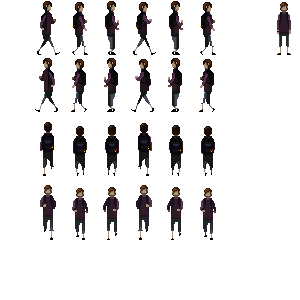
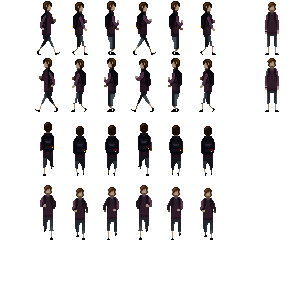
Quest fulfilment and idle animation

Changed region(s): [[0.87, 0.0, 0.99, 0.39]]

diff --git a/src/LostAndFound.Core/Games/Components/QuestHolderComponent.cs b/src/LostAndFound.Core/Games/Components/QuestHolderComponent.cs
@@ -12,12 +12,17 @@ namespace LostAndFound.Core.Games.Components
     public class QuestHolderComponent : IComponent
     {
         public Action<Quest> QuestTaken { get; set; }
+        public Action<Quest> QuestComplete { get; set; }
+
         private readonly ZoneManager _zoneManager;
         private readonly IInputManager _inputManager;
         public IEntity Entity { get; set; }
 
         private readonly IList<Quest> _quests = new List<Quest>();
         private QuestGiverComponent _questGiverNextTo;
+        private MoneyBagComponent _moneyBagComponent;
+        private BoxColliderComponent _boxColliderComponent;
+        private AnimalHolderComponent _animalHolder;
 
         public QuestHolderComponent(ZoneManager zoneManager, IInputManager inputManager)
         {
@@ -27,35 +32,19 @@ namespace LostAndFound.Core.Games.Components
 
         public void Start()
         {
+            _moneyBagComponent = Entity.GetComponent<MoneyBagComponent>();
+            _boxColliderComponent = Entity.GetComponent<BoxColliderComponent>();
+            _animalHolder = Entity.GetComponent<AnimalHolderComponent>();
         }
 
         public void Update(GameTime gameTime)
         {
-            foreach (var entity in _zoneManager.ActiveZone.Entities)
+            if (_inputManager.KeyPressed(Keys.E))
             {
-                var questGiverComponent = entity.GetComponent<QuestGiverComponent>();
-                if (questGiverComponent == null)
+                foreach (var entity in _zoneManager.ActiveZone.Entities)
                 {
-                    continue;
-                }
-
-                if (Vector2.Distance(Entity.Position, questGiverComponent.Entity.Position) < 20)
-                {
-                    _questGiverNextTo = questGiverComponent;
-
-                    if (!questGiverComponent.HasQuestToGive())
-                    {
-                        continue;
-                    }
-                    
-                    if (_inputManager.KeyPressed(Keys.E))
-                    {
-                        var newQuest = questGiverComponent.TakeQuest();
-                        _quests.Add(newQuest);
-                        QuestTaken?.Invoke(newQuest);
-                    }
-
-                    return;
+                    CheckForQuests(entity);
+                    CheckForQuestFulfilment(entity);
                 }
             }
 
@@ -67,6 +56,60 @@ namespace LostAndFound.Core.Games.Components
             _questGiverNextTo = null;
         }
 
+        private void CheckForQuestFulfilment(IEntity entity)
+        {
+            if (_animalHolder.Quest != null)
+            {
+                return;
+            }
+
+            var questFulfilmentComponent = entity.GetComponent<QuestFulfilmentComponent>();
+            var bounds = new Rectangle((int) entity.Position.X, (int) entity.Position.Y, entity.Width, entity.Height);
+
+            if (questFulfilmentComponent == null)
+            {
+                return;
+            }
+
+            if (questFulfilmentComponent.Quest.Completed)
+            {
+                return;
+            }
+
+            if (!_boxColliderComponent.Bounds.Intersects(bounds))
+            {
+                return;
+            }
+
+            questFulfilmentComponent.Quest.Completed = true;
+            _moneyBagComponent.AddMoney(questFulfilmentComponent.Quest.Reward);
+
+            _animalHolder.SetQuest(questFulfilmentComponent.Quest);
+        }
+
+        private void CheckForQuests(IEntity entity)
+        {
+            var questGiverComponent = entity.GetComponent<QuestGiverComponent>();
+            if (questGiverComponent == null)
+            {
+                return;
+            }
+
+            if (Vector2.Distance(Entity.Position, questGiverComponent.Entity.Position) < 20)
+            {
+                _questGiverNextTo = questGiverComponent;
+
+                if (!questGiverComponent.HasQuestToGive())
+                {
+                    return;
+                }
+
+                var newQuest = questGiverComponent.TakeQuest();
+                _quests.Add(newQuest);
+                QuestTaken?.Invoke(newQuest);
+            }
+        }
+
         public void Draw(SpriteBatch spriteBatch)
         {
             if (_questGiverNextTo != null)
@@ -75,5 +118,4 @@ namespace LostAndFound.Core.Games.Components
             }
         }
     }
-
 }

diff --git a/src/LostAndFound.Core/Games/Interfaces/GameInterface.cs b/src/LostAndFound.Core/Games/Interfaces/GameInterface.cs
@@ -36,6 +36,8 @@ namespace LostAndFound.Core.Games.Interfaces
 
         private Sprite _questPopupImage;
         private AudioSystem _audioSystem;
+        private MoneyBagComponent _moneyBagComponent;
+        private Text _moneyText;
 
 
         private IPanel ActivePanel => _panels.First(x => x.Name.Equals(_activePanelName));
@@ -66,13 +68,14 @@ namespace LostAndFound.Core.Games.Interfaces
         {
             _font = _contentChest.Get<SpriteFont>("Fonts/DefaultFont");
             var gamePanel = new Panel(_renderManager, "Game");
-            var panelText = new Text(_font, "NO MONEY", Color.Black, new Vector2(10, 10), 1f, Origin.TopLeft);
-            gamePanel.AddElement(panelText);
+            _moneyText = new Text(_font, "NO MONEY", Color.Black, new Vector2(10, 10), 1f, Origin.TopLeft);
+            gamePanel.AddElement(_moneyText);
             _panels.Add(gamePanel);
         }
 
         public void Update(GameTime gameTime)
         {
+            _moneyText.SetText($"${_moneyBagComponent.Money}");
             if (_inputManager.KeyPressed(Keys.Tab))
             {
                 _activePanelName = _activePanelName.Equals("Quest") ? "Game" : "Quest";
@@ -90,6 +93,8 @@ namespace LostAndFound.Core.Games.Interfaces
         {
             // Register to the quest holder component action, so we can show some UI when taking quest
             _questHolderComponent = entity.GetComponent<QuestHolderComponent>();
+            _moneyBagComponent = entity.GetComponent<MoneyBagComponent>();
+
             _questHolderComponent.QuestTaken += ShowQuestTaken;
         }
 
@@ -102,7 +107,7 @@ namespace LostAndFound.Core.Games.Interfaces
             element.AddEffect(new MoveUpEffect());
 
             _audioSystem.Play("Audio\\SoundEffects\\quest_taken");
-            
+
             gamePanel.AddElement(element);
         }
     }

diff --git a/src/LostAndFound.Core/Games/GameInstance.cs b/src/LostAndFound.Core/Games/GameInstance.cs
@@ -75,6 +75,8 @@ namespace LostAndFound.Core.Games
             player.AddComponent(Program.Resolve<ZoneInteractionComponent>());
             player.AddComponent(playerSoundComponent);
             player.AddComponent(Program.Resolve<PlayerSoundManagerComponent>());
+            player.AddComponent(Program.Resolve<MoneyBagComponent>());
+            player.AddComponent(Program.Resolve<AnimalHolderComponent>());
 
             var questHolderComponent = Program.Resolve<QuestHolderComponent>();
             player.AddComponent(questHolderComponent);
@@ -112,7 +114,7 @@ namespace LostAndFound.Core.Games
             _gameInterface.Draw();
             _systemManager.Draw(_renderManager.SpriteBatch);
             _renderManager.SpriteBatch.End();
-            
+
             _lightingOverlay.DrawNow();
         }
 

diff --git a/src/LostAndFound.Core/Games/Components/AnimalHolderComponent.cs b/src/LostAndFound.Core/Games/Components/AnimalHolderComponent.cs
@@ -1,0 +1,27 @@
+using LostAndFound.Core.Games.Entities;
+using LostAndFound.Core.Games.Questing;
+using Microsoft.Xna.Framework;
+using Microsoft.Xna.Framework.Graphics;
+
+namespace LostAndFound.Core.Games.Components
+{
+    public class AnimalHolderComponent : IComponent
+    {
+        public IEntity Entity { get; set; }
+        public Quest Quest { get; private set; }
+
+        public void Start()
+        {
+        }
+
+        public void Update(GameTime gameTime)
+        {
+        }
+
+        public void Draw(SpriteBatch spriteBatch)
+        {
+        }
+
+        public void SetQuest(Quest quest) => Quest = quest;
+    }
+}

diff --git a/src/LostAndFound.Core/Games/Components/QuestFulfilmentComponent.cs b/src/LostAndFound.Core/Games/Components/QuestFulfilmentComponent.cs
@@ -1,0 +1,28 @@
+using LostAndFound.Core.Games.Entities;
+using LostAndFound.Core.Games.Questing;
+using Microsoft.Xna.Framework;
+using Microsoft.Xna.Framework.Graphics;
+
+namespace LostAndFound.Core.Games.Components
+{
+    public class QuestFulfilmentComponent : IComponent
+    {
+        public IEntity Entity { get; set; }
+        public Quest Quest { get; set; }
+
+        public void Start()
+        {
+            
+        }
+
+        public void Update(GameTime gameTime)
+        {
+            
+        }
+
+        public void Draw(SpriteBatch spriteBatch)
+        {
+            
+        }
+    }
+}

diff --git a/src/LostAndFound.Core/Games/Components/MoneyBagComponent.cs b/src/LostAndFound.Core/Games/Components/MoneyBagComponent.cs
@@ -1,0 +1,27 @@
+using LostAndFound.Core.Games.Entities;
+using Microsoft.Xna.Framework;
+using Microsoft.Xna.Framework.Graphics;
+
+namespace LostAndFound.Core.Games.Components
+{
+    public class MoneyBagComponent : IComponent
+    {
+        public IEntity Entity { get; set; }
+
+        public int Money { get; private set; }
+
+        public void Start()
+        {
+        }
+
+        public void AddMoney(int money) => Money += money;
+
+        public void Update(GameTime gameTime)
+        {
+        }
+
+        public void Draw(SpriteBatch spriteBatch)
+        {
+        }
+    }
+}

diff --git a/src/LostAndFound.Core/Modules/CoreModule.cs b/src/LostAndFound.Core/Modules/CoreModule.cs
@@ -97,6 +97,9 @@ namespace LostAndFound.Core.Modules
             builder.RegisterType<QuestGiverComponent>().InstancePerDependency();
             builder.RegisterType<QuestHolderComponent>().InstancePerDependency();
             builder.RegisterType<LightComponent>().InstancePerDependency();
+            builder.RegisterType<QuestFulfilmentComponent>().InstancePerDependency();
+            builder.RegisterType<MoneyBagComponent>().InstancePerDependency();
+            builder.RegisterType<AnimalHolderComponent>().InstancePerDependency();
         }
     }
 }

diff --git a/src/LostAndFound.Core/Content/PlayerAnimationSet.cs b/src/LostAndFound.Core/Content/PlayerAnimationSet.cs
@@ -73,10 +73,11 @@ namespace LostAndFound.Core.Content
 
             animatorComponent.AddAnimation("Idle", new Animation(new List<Sprite>
             {
-                playerAnimationMap.CreateSpriteFromRegion("Idle_1")
+                playerAnimationMap.CreateSpriteFromRegion("Idle_1"),
+                playerAnimationMap.CreateSpriteFromRegion("Idle_2")
             })
             {
-                FrameDuration = 0.2f
+                FrameDuration = 0.6f
             });
         }
     }

diff --git a/src/LostAndFound.Core/Games/Entities/IEntity.cs b/src/LostAndFound.Core/Games/Entities/IEntity.cs
@@ -9,8 +9,8 @@ namespace LostAndFound.Core.Games.Entities
         public Vector2 Position { get; set; }
         GameInstance GameInstance { get; set; }
         int Bottom { get; set; }
-        double Width { get; set; }
-        double Height { get; set; }
+        int Width { get; set; }
+        int Height { get; set; }
         public void AddComponent(IComponent component);
         public T GetComponent<T>();
         public void Update(GameTime gameTime);

diff --git a/src/LostAndFound.Core/Games/Systems/QuestSystem.cs b/src/LostAndFound.Core/Games/Systems/QuestSystem.cs
@@ -71,6 +71,10 @@ namespace LostAndFound.Core.Games.Systems
             staticDrawComponent.Image = animal;
 
             entity.AddComponent(staticDrawComponent);
+            
+            var questFulfilmentComponent = Program.Resolve<QuestFulfilmentComponent>();
+            questFulfilmentComponent.Quest = quest;
+            entity.AddComponent(questFulfilmentComponent);
 
             animalZone.AddEntity(entity);
         }

diff --git a/src/LostAndFound.Core/Games/Entities/Entity.cs b/src/LostAndFound.Core/Games/Entities/Entity.cs
@@ -11,8 +11,8 @@ namespace LostAndFound.Core.Games.Entities
         public Vector2 Position { get; set; }
         public GameInstance GameInstance { get; set; }
         public int Bottom { get; set; }
-        public double Width { get; set; }
-        public double Height { get; set; }
+        public int Width { get; set; }
+        public int Height { get; set; }
 
         public Entity(Vector2 position)
         {

diff --git a/src/LostAndFound.Core/Games/Components/QuestGiverComponent.cs b/src/LostAndFound.Core/Games/Components/QuestGiverComponent.cs
@@ -140,7 +140,8 @@ namespace LostAndFound.Core.Games.Components
                 AnimalImage = randomAnimalType + "_" + _random.Next(1, 6),
                 AnimalColor = ColorRandomizer.GetRandomColor(),
                 AnimalName = "Joey",
-                Completed = false
+                Completed = false,
+                Reward = 1000
             };
             return _givenQuest;
         }
